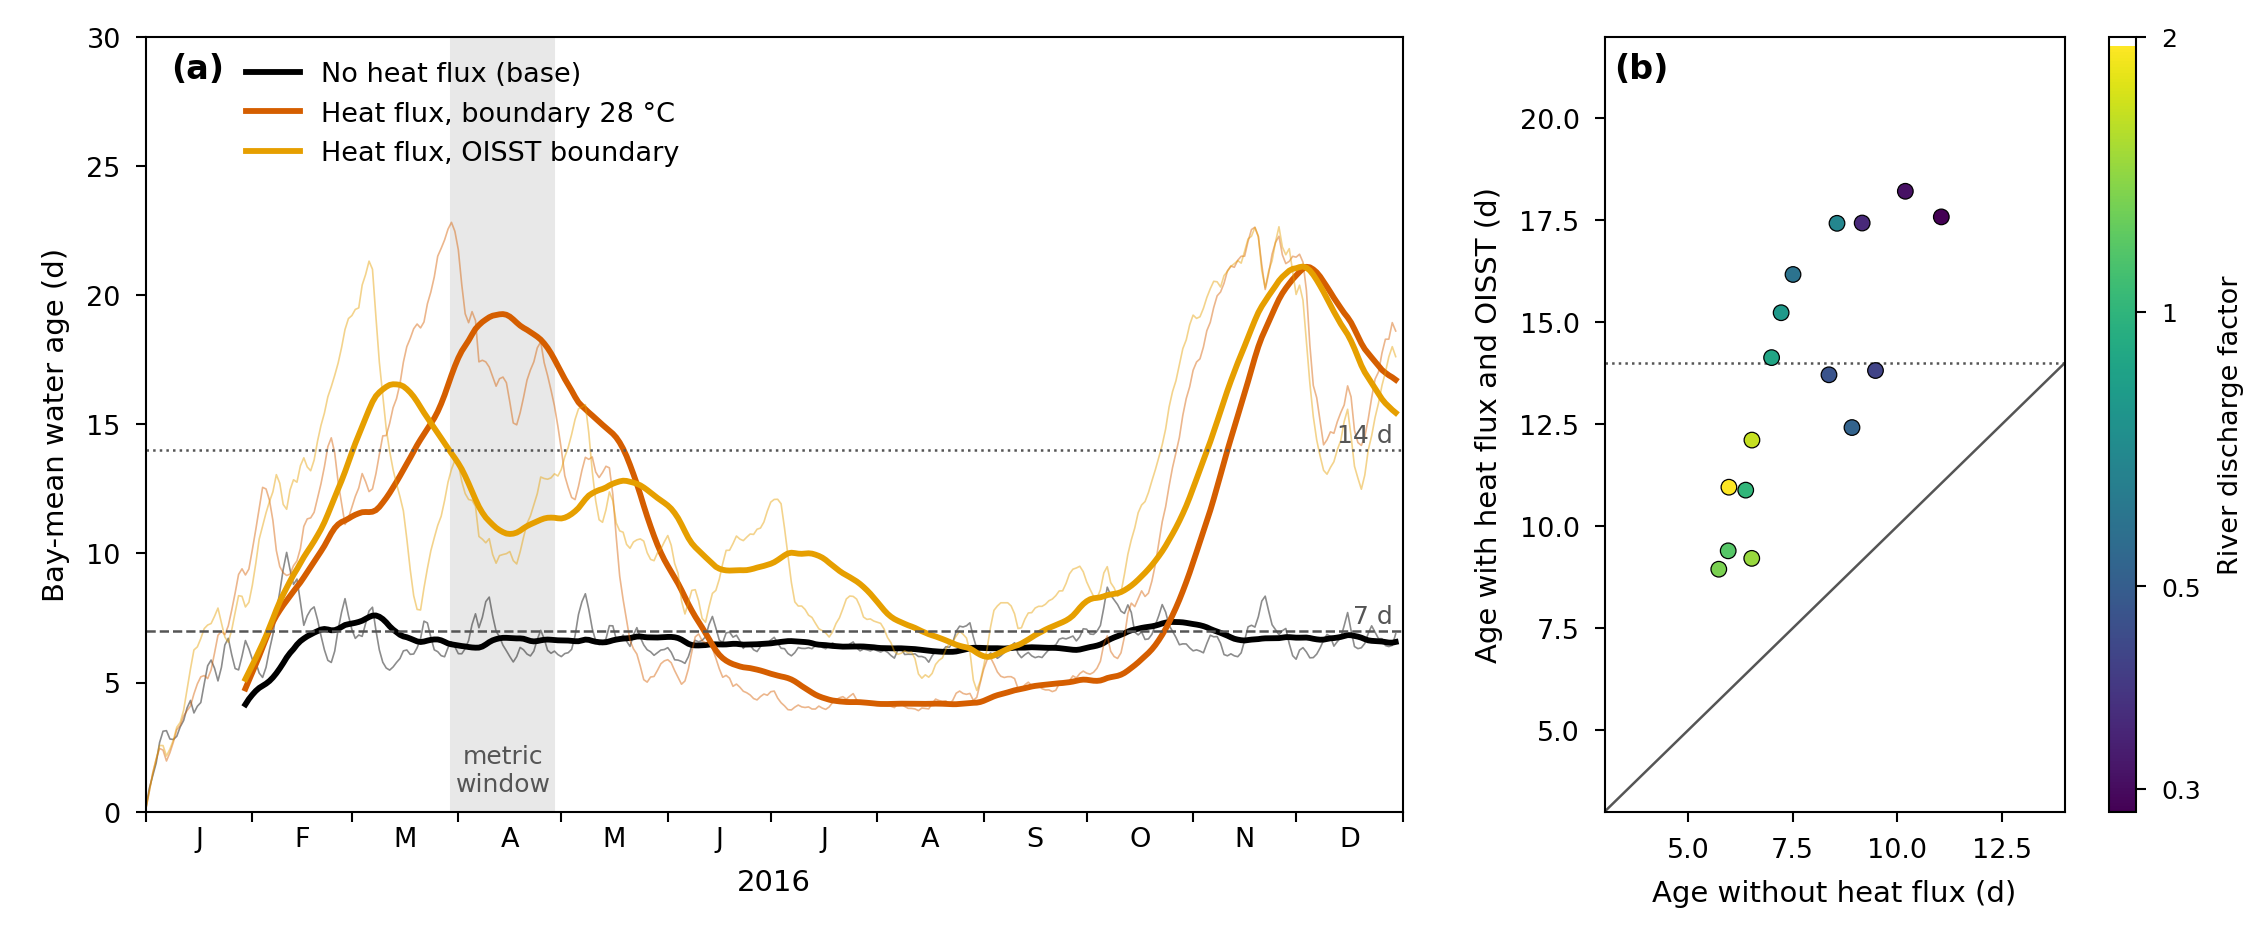
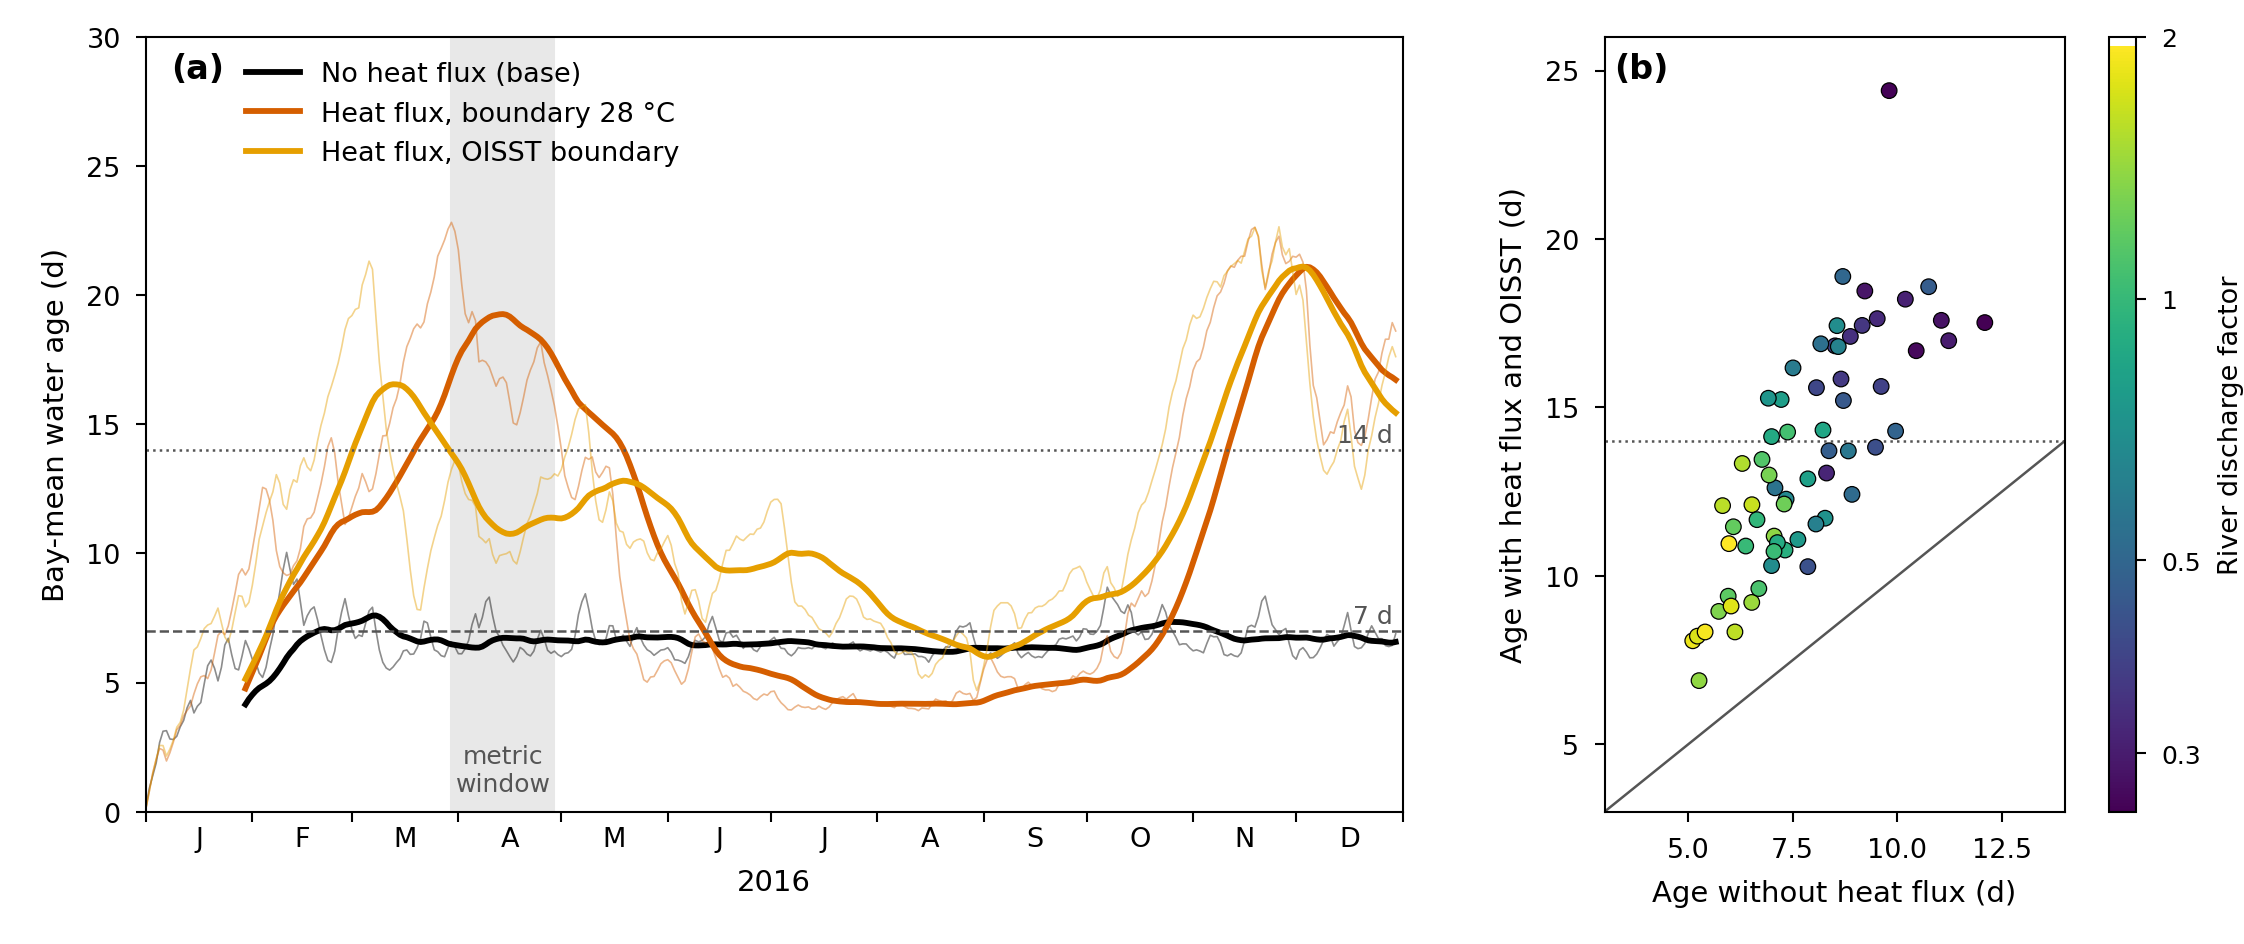
V2: fig_heatflux (b) con los 64 miembros y bloque consolidado para el chat del articulo (17-nov)
Claude-Session: https://claude.ai/code/session_011ZQy6j6faxb4dHyc5rKgZH

diff --git a/scripts/fig_heatflux.py b/scripts/fig_heatflux.py
@@ -1,10 +1,10 @@
 #!/usr/bin/env python3
 """Figura del efecto del flujo de calor (B1 de la revision V2). Lee el repo tecnico (solo lectura) y escribe en --salida.
   python scripts/fig_heatflux.py [<raiz_repo_tecnico> <carpeta_salida>]   (por defecto: este repo y docs/figuras/articulo)
-Copiado el 16-nov de fig_trabajo/fig_heatflux.py del repo del articulo (V2); sin cambios en la figura. La salida impresa se guarda en
+Copiado el 16-nov de fig_trabajo/fig_heatflux.py del repo del articulo (V2); el 17-nov el panel (b) pasa a los 64 miembros de calor64. La salida impresa se guarda en
 resultados/heatflux_cifras.txt.
 (a) edad media de la bahia, 365 d: base, calor + borde 28 C, calor + OISST (runs/robustez_largo/m0001, m0005 y la base m0000).
-(b) 16 miembros del bloque A (0-15): edad en los ultimos 30 d de 120 sin y con calor+OISST, color = factor de caudal.
+(b) 64 miembros del bloque A (0-63; 16 hasta el 16-nov): edad en los ultimos 30 d de 120 sin y con calor+OISST, color = factor de caudal.
 Imprime tambien las cifras anuales y mensuales (B3)."""
 import csv, json, sys
 from pathlib import Path
@@ -48,15 +48,15 @@ ax.set_xlim(1, 365); ax.set_ylim(0, 30); ax.set_xticks(MES + 1, minor=False); ax
 ax.set_xlabel("2016"); ax.set_ylabel("Bay-mean water age (d)"); ax.legend(loc="upper left", frameon=False, bbox_to_anchor=(0.06, 1.0))
 E.letra(ax, "a")
 # (b)
-filas = [f for f in csv.DictReader(open(RAIZ / "datos" / "conjunto" / "diseno.csv")) if int(f["miembro"]) < 16]
+filas = [f for f in csv.DictReader(open(RAIZ / "datos" / "conjunto" / "diseno.csv")) if int(f["miembro"]) < 64]
 sin = np.array([json.loads((RAIZ / "runs" / "conjunto" / f"m{int(f['miembro']):04d}" / "resumen.json").read_text())["edad_media_d_bahia"] for f in filas])
 cal = np.array([json.loads((RAIZ / "runs" / "conjunto_calor" / f"m{int(f['miembro']):04d}" / "resumen.json").read_text())["edad_media_d_bahia"] for f in filas])
 q = np.array([float(f["qfac"]) for f in filas])
 sc = bx.scatter(sin, cal, c=q, cmap="viridis", norm=LogNorm(q.min(), q.max()), s=14, edgecolor="k", linewidth=0.3, zorder=3)
-bx.plot([0, 25], [0, 25], color="#555555", lw=0.6); bx.set_xlim(3, 14); bx.set_ylim(3, 22)
+bx.plot([0, 25], [0, 25], color="#555555", lw=0.6); bx.set_xlim(3, np.ceil(sin.max()) + 1); bx.set_ylim(3, np.ceil(cal.max()) + 1)
 for v, ls in ((14, ":"),): bx.axhline(v, color="#555555", lw=0.6, ls=ls)
 bx.set_xlabel("Age without heat flux (d)"); bx.set_ylabel("Age with heat flux and OISST (d)")
 cb = fig.colorbar(sc, cax=cx); cb.set_ticks([0.3, 0.5, 1, 2]); cb.set_ticklabels(["0.3", "0.5", "1", "2"]); cb.ax.minorticks_off(); cb.set_label("River discharge factor", fontsize=6.5); cb.ax.tick_params(labelsize=6)
 E.letra(bx, "b")
-print("16 miembros: sin mediana", np.median(sin).round(2), "calor", np.median(cal).round(2), "calor>sin", int((cal > sin).sum()))
+print(f"{len(filas)} miembros: sin mediana", np.median(sin).round(2), "calor", np.median(cal).round(2), "calor>sin", int((cal > sin).sum()))
 E.guarda(fig, "fig_heatflux", 190, salida=SAL, alto_max=110)

diff --git a/docs/articulo/para_chat_articulo_17nov.md b/docs/articulo/para_chat_articulo_17nov.md
@@ -1,0 +1,52 @@
+# Para el chat del artículo — cierre de PENDIENTES_V2 (17-nov-2026)
+
+Sustituye a `para_chat_articulo_16nov_v2.md` (que se queda como histórico: tenía cifras de 16 miembros y costes estimados). Todo se hizo con la lectura fijada y commiteada antes de ver datos; ningún umbral cambió. Lecturas: a553d4d (protocolo 16-nov (3) y (4)). Resultados: 89da8ba (B2), d2d7682 (B4). Cifras y figuras: 96adee1 y el commit de este archivo.
+
+## 1. Cifras que cambian (antes → después)
+
+| Cifra | V2 (16 miembros) | Ahora (64 miembros) |
+|---|---|---|
+| Mediana de la bahía con calor (P5–P95) | 13,8 d (9,2–17,7) | **13,2 d (8,3–18,4)** |
+| Mediana sin calor, mismos miembros | 7,4 d (5,9–10,4) | **7,6 d (5,5–10,7)** |
+| Desplazamiento por el calor | 6,4 d (diferencia de medianas) | **5,4 d (pareado)**; calor mayor en 64/64 |
+| Comparación con el rango paramétrico | 6,4 d frente a 4,8 d (16 frente a 128) | **5,4 d frente a 5,25 d (mismos 64), R = 1,03 → «del mismo orden»** |
+| C1 y C4 con calor | 0,94 (15/16) | **0,91 (58/64)**, robustas por poco |
+| C3 (Marimelena > cuenca) | 0,69 → 1,00 | **49/64 → 64/64** (frágil → robusta) |
+| P(edad > 7 d) | 0,56 → 1,00 | **42/64 → 63/64** (frágil → robusta) |
+| P(edad > 14 d) | 0,00 → 0,44 | **0/64 → 27/64** (rechazada → frágil) |
+| P(edad > 30 d) | 0 → 0 | **0/64 → 0/64**; máximo con calor 24,4 d (un miembro) |
+| En equilibrio (|deriva| ≤ 0,05 d/d) | 14/16 → 0/16 | **59/64 → 1/64** |
+| Caudal con calor, ρ(edad, qfac) | −0,80 (no separable de la marea, ρ diseño +0,93) | **−0,79** (sin calor −0,91); ρ parcial qfac\|mfac −0,79, mfac\|qfac −0,13 (ρ diseño 0,00) |
+| Marea EOT20 frente a FES2022 | «< 0,4 cm» | **«como mucho 0,4 cm»** (máx. 0,37, O1) |
+
+Sin cambios (365 d, `robustez_largo`): edad media anual base 6,5 d, calor + 28 °C 10,5, calor + OISST 11,4; días > 14 d 0, 119 y 88 de 365; media de 30 d con calor + OISST 5,1–21,1 d; medias mensuales con calor + OISST 5,2 (ene) … 21,0 (nov), mínimo 6,1 en agosto (base 6,3).
+
+## 2. Mecanismo (B2): resultado parcial
+
+Proxy bulk del flujo neto (SST OISST, coeficientes constantes; **no es el flujo de SCHISM**) frente a la edad diaria de 365 d. m0005: T1 (enfriamiento → crecimiento de la edad, bloques de 5 d) +0,32, confirma por 0,02; control sin calor −0,01; T2 (mensual feb–dic) +0,75, confirma; **T3 (separar del viento) +0,14 < 0,25, no se cumple → veredicto parcial.** Réplica m0001: +0,51, +0,66, +0,33. El proxy da un balance anual de −18,5 W/m² (calor latente 148 W/m², probablemente sobreestimado): se usa solo por rangos. No hay Δρ del canal. Con calor, en los 64, ρ(edad, vfac) = −0,35 (descriptivo), coherente con que el viento pesa.
+
+## 3. Frases en inglés
+
+- **Heat-flux ensemble:** «Repeating the 64 members of block A with the air–sea heat flux and the OISST boundary temperature raised the bay-mean age in every member (64/64): the median rose from 7.6 d (P5–P95 5.5–10.7 d) to 13.2 d (8.3–18.4 d), a paired median shift of 5.4 d, of the same order as the 5.3-d P5–P95 range spanned by all nine parameters in the same members.»
+- **Classes:** «With the heat flux three conclusions change class: Marimelena older than the central basin (49/64 → 64/64) and P(age > 7 d) (42/64 → 63/64) become robust, and P(age > 14 d) moves from rejected (0/64) to fragile (27/64). The along-bay ordering and the inner arms being older than the basin remain robust, but only just (58/64). No member exceeded 30 d.»
+- **Discharge, not tide:** «River discharge remains the dominant parameter with the heat flux (Spearman ρ = −0.79, −0.91 without it). In these 64 members discharge and tidal amplitude are uncorrelated by design, and the effect is that of discharge (partial ρ = −0.79 for discharge given tidal amplitude, −0.13 for tidal amplitude given discharge).»
+- **Year-long run:** «Over 2016, with the heat flux and the OISST boundary, the bay-mean age averaged 11.4 d (6.5 d without heat flux), exceeded 14 d on 88 of 365 days (none without), and its 30-day mean ranged from 5.1 to 21.1 d, peaking in November (21.0 d) and lowest in August (6.1 d; 6.3 d without heat flux).»
+- **Mechanism:** «The age with the heat flux is highest in the months of negative net surface heat flux and stronger winds (October–March), but in this single year-long series cooling and wind stress cannot be separated; the pattern is consistent with, but does not demonstrate, a weakening of the estuarine circulation by winter cooling. The surface–bottom density difference in the channel, which would test this, was not stored.»
+- **Scope:** «The heat-flux ensemble covers January–April 2016 (120 d, last 30 d). With the heat flux the age does not reach a steady state, so the 30-d window is one of several possible and the result is not extrapolated to other seasons.»
+
+## 4. Figuras (en `docs/figuras/articulo/`)
+
+- `fig_heatflux.{png,pdf}`: panel (b) ahora con los 64 miembros (antes 16); panel (a) igual. Pie: «(b) 64 members of block A …».
+- `graphical_abstract.{png,pdf}`: titular «About one week without the heat flux, about two weeks with it, never months»; naranja = 64 con calor; barra en días «paired median shift» 5,4 frente a «P5–P95 range (same 64)» 5,3 (5,25 redondeado), separada de los S_T.
+
+## 5. Tabla 4
+
+Columna con calor de la Tabla 4 en fracciones n/64 (sección 1). C8 (Sobol) no se evalúa con calor: no hay matrices AB_i; el orden de parámetros va por Spearman.
+
+## 6. Coste (medido)
+
+Conjunto con calor: 64 miembros × ≈ 49 core-h = **≈ 3.100 core-h**. Tres corridas de 365 d: 120 + 133 + 126 = **≈ 380 core-h**. Conjunto principal: ≈ 54.000. Sigue pendiente de Alex el total de horas-núcleo del proyecto.
+
+## 7. Pendientes (de Alex)
+
+`git push`; total de horas-núcleo; Zenodo/DOI y enlace al repo; B5 (datos de observación), B8 (Ponce Portela: volumen, número, año, páginas), B9 (enlaces del repositorio y Sentinel-2); CRediT, afiliaciones y financiación. En reserva: repetir m0005 con T, S, flujos y estaciones del canal (≈ 130–180 core-h) solo si se quiere afirmar el mecanismo.

diff --git a/docs/articulo/para_chat_articulo_16nov_v2.md b/docs/articulo/para_chat_articulo_16nov_v2.md
@@ -1,5 +1,7 @@
 # Respuesta del chat técnico a PENDIENTES_V2 (16-nov-2026)
 
+> **Histórico.** Sustituido por `para_chat_articulo_17nov.md` (cifras con 64 miembros y costes medidos).
+
 Todo con la lectura fijada y commiteada antes de ver el resultado; ningún umbral cambió.
 
 ## Hecho (con commit)
